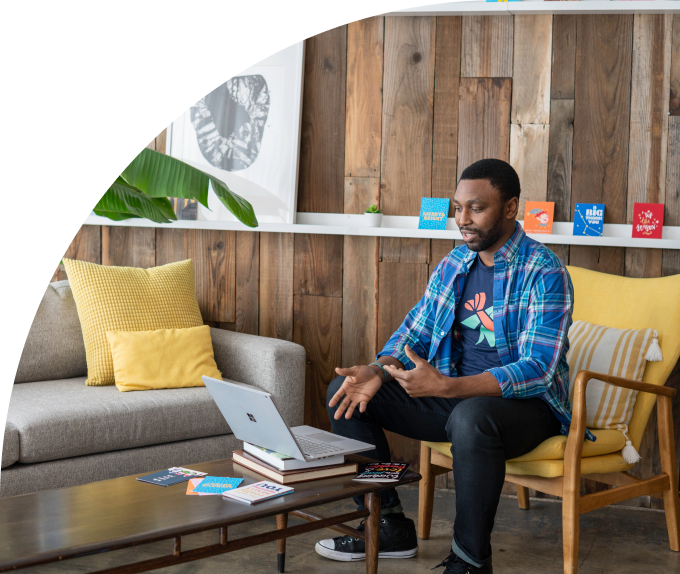
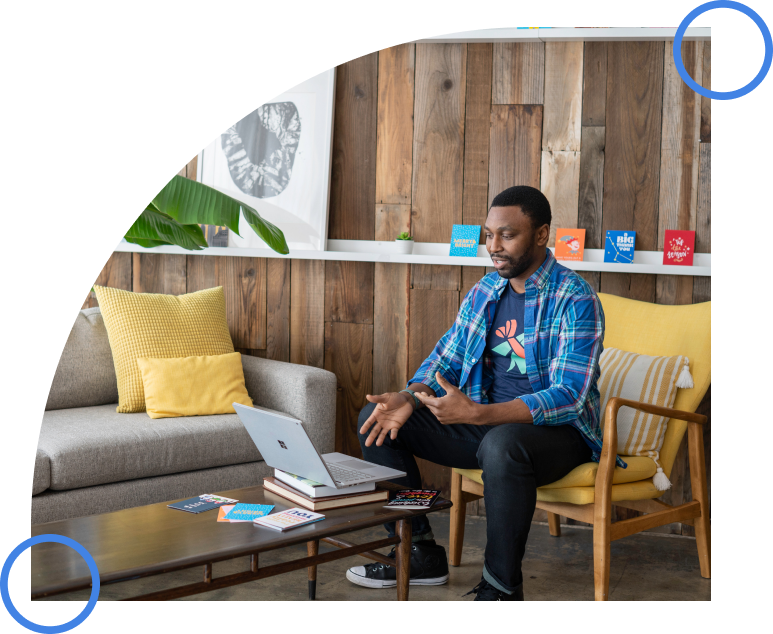
responsive home done

diff --git a/pages/index.tsx b/pages/index.tsx
@@ -41,8 +41,8 @@ const Index: NextPage = () => {
                 src={Banner1}
                 />
             </div>
-            <div className='cta grid grid-cols-2'>
-                <div className='mt-[90px] mb-[49.5px] ml-[20px]'>
+            <div className='cta grid xsm:grid-cols-2 overflow-hidden'>
+                <div className='hidden xsm:block mt-[90px] mb-[49.5px] ml-[20px]'>
                     <Image 
                     className='float-left w-[400px] mb-[-250px]'
                     alt='ellipse'
@@ -58,14 +58,14 @@ const Index: NextPage = () => {
                     alt='ellipse'
                     src={Ellipses}/>
                 </div>
-                <div className='mt-[140px] ml-[20px]'>
-                    <span className='block text-[64px] text-primaryBlue font-semibold'>Meet clocker</span>
-                    <span className='block text-[24px] text-black'>The easist way to create a digital footprint.</span>
-                    <span className='block text-[16px]'>Clocker helps users to check into Access points, Events, and locations in Seconds.
+                <div className='mt-5 xsm:mt-[80px] md:mt-[140px] xsm:ml-[20px]'>
+                    <span className='block text-[40px] text-center xsm:text-left xsm:text-[40px] md:text-[64px] text-primaryBlue font-semibold'>Meet clocker</span>
+                    <span className='block text-[18px] text-center xsm:text-left font-bold xsm:text-[24px] text-black mb-2'>The easist way to create a digital footprint.</span>
+                    <span className='block text-[16px] text-center xsm:text-left'>Clocker helps users to check into Access points, Events, and locations in Seconds.
                         <br />
                         Databoard works hand in hand with cloker, to drive efficieny with data. 
                     </span>
-                    <div>
+                    <div className='flex justify-center xsm:justify-start'>
                         <Image 
                         className='inline'
                         alt='playstore'
@@ -76,17 +76,22 @@ const Index: NextPage = () => {
                         src={Appstore}/>
                     </div>
                 </div>
+                <div className='mt-5 xsm:mt-[90px] mb-[49.5px] ml-[20px] xsm:hidden'>
+                    <Image 
+                    className='w-[200px] xsm:w-[350px] m-auto'
+                    alt='phone'
+                    src={Iphone}/>
+                </div>
             </div>
-            <div className='cta grid grid-cols-2 justify-center bg-[#F4F4F4]'>
-                <div className='pl-[20%]'>
-                    <span className='block text-[50px] text-primaryBlue font-semibold mt-[100px]'>Contact Us  About 
+            <div className='cta grid sm:grid-cols-2 justify-center bg-[#F4F4F4] overflow-hidden'>
+                <div className='px-2 text-center sm:text-left md:pl-[20%]'>
+                    <span className='block text-[32px] lg:text-[40px] text-primaryBlue font-semibold mt-5 mb-2 lg:mt-[100px]'>Contact Us About 
                         <br />
                         Databoard Software
                     </span>
-                    <span className='block text-[15px]'>We will love to help you optimize performance and establish peak efficiency with Databoard.  Let us help you get more out of your visitors without breaking privacy.</span>
-                    <br />
-                    <div className='flex gap-2'>
-                        <a href="#" className='flex border border-primaryBlue rounded-[4px] h-[50px] w-auto px-1 bg-primaryBlue'>
+                    <span className='block text-[15px] mb-5'>We will love to help you optimize performance and establish peak efficiency with Databoard.  Let us help you get more out of your visitors without breaking privacy.</span>
+                    <div className='flex gap-2 justify-center sm:justify-start'>
+                        <a href="#" className='flex border border-primaryBlue rounded-[4px] h-[50px] w-[130px] px-1 bg-primaryBlue'>
                             <span className='m-auto text-pureWhite'>
                             <Image
                             className='inline mr-1'
@@ -95,50 +100,49 @@ const Index: NextPage = () => {
                             Call Sales
                             </span>
                         </a>
-                        <a href="#" className='flex border border-primaryBlue rounded-[4px] h-[50px] w-[100px]'><span className='m-auto text-primaryBlue'>Get Started</span></a>
+                        <a href="#" className='flex border border-primaryBlue rounded-[4px] h-[50px] w-[130px]'><span className='m-auto text-primaryBlue'>Get Started</span></a>
                     </div>
                 </div>
-                <div>
-                    <div className='w-[50px] h-[50px] border-4 border-primaryBlue rounded-full relative top-[30px] left-[475px]'></div>
+                <div className='mt-5 mb-3'>
                     <Image
-                    className='w-[500px]'
+                    className='w-[400px] xsm:w-[500px] m-auto'
                     alt='cta2'
                     src={Cta2}/>
-                    <div className='w-[50px] h-[50px] border-4 border-primaryBlue rounded-full relative bottom-[30px] left-[-20px]'></div>
                 </div>
             </div>
-            <div className='cta bg-primaryBlue px-10'>
-                <div className='flex justify-around'>
-                    <div>
-                        <span className='block text-[40px] font-semibold text-pureWhite mt-32'>Privacy-focused <br/>Data acquisitor</span>
-                        <br />
-                        <span className='block text-pureWhite text-[16px]'>We focus on the data security of our users and <br/>priotizie thier privacy before anything else</span>
+            <div className='cta bg-primaryBlue px-10 text-center overflow-hidden'>
+                <div className='grid sm:grid-cols-2 lg:flex justify-around'>
+                    <div className=''>
+                        <span className='block text-[24px] sm:text-[30px] md:text-[40px] font-semibold text-pureWhite mt-5 sm:mt-20 lg:mt-32 mb-3'>Privacy-focused Data acquisitor</span>
+                        <span className='block text-pureWhite xsm:text-[16px]'>We focus on the data security of our users and priotizie thier privacy before anything else</span>
                     </div>
                     <div>
                         <Image
-                        className='w-[400px]' 
+                        className='w-[400px] m-auto' 
                         alt='secure'
                         src={Security}/>
                     </div>
                 </div>
-                <div className='flex justify-around'>
+                <div className='grid sm:grid-cols-2 lg:flex justify-around'>
+                    <div className='sm:hidden'>
+                        <span className='block text-[24px] sm:text-[40px] font-semibold text-pureWhite mt-5 sm:mt-32 mb-5'>Insights and Reporting</span>
+                        <span className='block text-pureWhite text-[16px]'>Generate insights from data or <br/>perfromance optimization</span>
+                    </div>
                     <div>
                         <Image
                         className='w-[400px]' 
                         alt='visual'
                         src={Visual}/>
                     </div>
-                    <div>
-                        <span className='block text-[40px] font-semibold text-pureWhite mt-32'>Insights and <br/>Reporting</span>
-                        <br />
+                    <div className='hidden sm:block'>
+                        <span className='block text-[24px] sm:text-[30px] md:text-[40px] font-semibold text-pureWhite mt-5 sm:mt-20 lg:mt-32 mb-3'>Insights and <br/>Reporting</span>
                         <span className='block text-pureWhite text-[16px]'>Generate insights from data or <br/>perfromance optimization</span>
                     </div>
                 </div>
-                <div className='flex justify-around'>
+                <div className='grid sm:grid-cols-2 lg:flex justify-around'>
                     <div>
-                        <span className='block text-[40px] font-semibold text-pureWhite mt-32'>Communication tool</span>
-                        <br />
-                        <span className='block text-pureWhite text-[16px]'>Target and Engage your Databoard <br />audience with our communication tools.</span>
+                        <span className='block text-[24px] sm:text-[30px] md:text-[40px] font-semibold text-pureWhite mt-5 sm:mt-20 lg:mt-32 mb-3'>Communication tool</span>
+                        <span className='block text-pureWhite xsm:text-[16px]'>Target and Engage your Databoard <br />audience with our communication tools.</span>
                     </div>
                     <div>
                         <Image
@@ -148,8 +152,8 @@ const Index: NextPage = () => {
                     </div>
                 </div>
             </div>
-            <Brands />
-            <div className='cta bg-pureWhite py-9'>
+            {/* <Brands /> */}
+            {/* <div className='cta bg-pureWhite py-9'>
                 <div>
                     <h2 className='text-[30px] text-center font-semibold'>What our customers are saying</h2>
                 </div>
@@ -218,7 +222,7 @@ const Index: NextPage = () => {
                     <div className='bg-primaryBlue w-2 h-2 rounded-full ml-1'></div>
                     <div className='bg-primaryBlue w-2 h-2 rounded-full ml-1'></div>
                </div>
-            </div>
+            </div> */}
             <Join/>
             <Footer />
         </>

diff --git a/components/HomePages/Join.js b/components/HomePages/Join.js
@@ -4,9 +4,9 @@ const Logo1 = require('../../public/assets/logo-home.png')
 function Join() {
     return (
             <div className='flex justify-center'>
-                <div className='w-[70%] my-9'>
+                <div className='w-[90%] md:w-[70%] my-9'>
                     <div>
-                        <span className='block text-[64px] text-center'>Join Databoard to enjoy our 14-day Free trial</span>
+                        <span className='block text-[32px] md:text-[40px] lg:text-[64px] text-center font-semibold'>Join Databoard to enjoy our 14-day Free trial</span>
                     </div>
                     <div className='flex gap-3 justify-center mt-9'>
                         <a href="#" className='flex border border-primaryBlue rounded-[4px] h-[50px] w-[100px] bg-primaryBlue'><span className='block m-auto text-pureWhite'>Get Started</span></a>

diff --git a/components/HomePages/Navbar.js b/components/HomePages/Navbar.js
@@ -112,6 +112,9 @@ function Navbar() {
                         </ul>
                     </div>
                 </li>
+                <li className="mb-5 hover:text-primaryBlue">
+                    <Link href="/about" className={location.pathname=='/about'?"block active":'block'}>About Us</Link>
+                </li>
             </ul>
             <div className='m-auto'>
                 <a href="#" className='flex border border-primaryBlue rounded-[4px] h-[40px] w-[100px] m-auto mb-2'><span className='block m-auto text-primaryBlue'>Log In</span></a>
